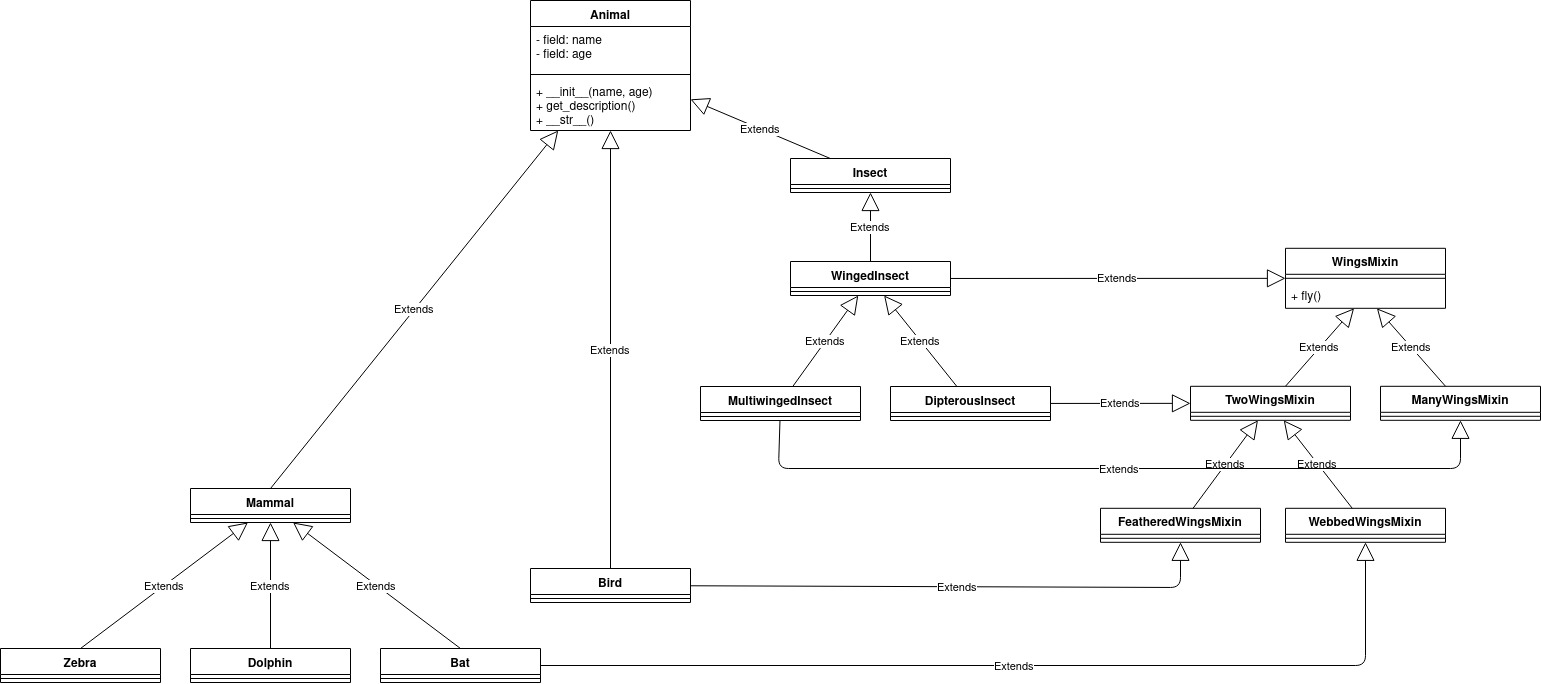
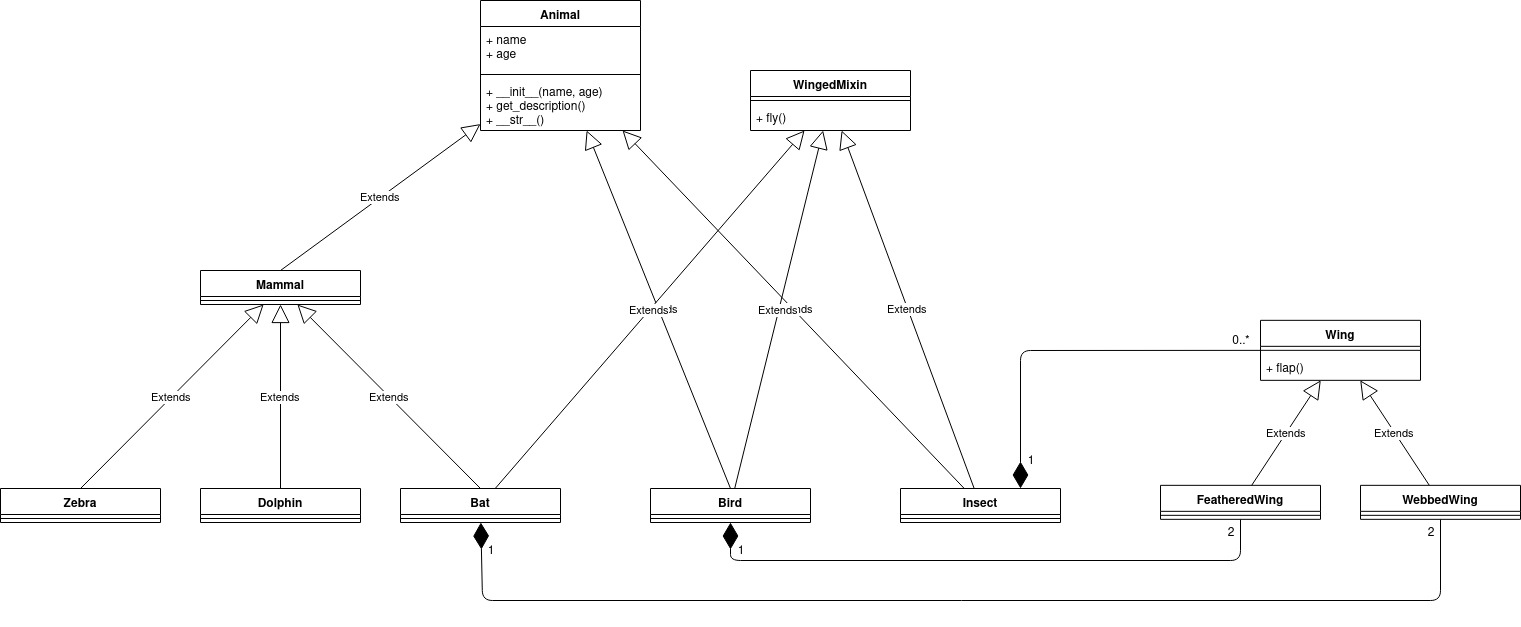
Redo last task in 5th lab work

diff --git a/5_oop/4_animals/animals.py b/5_oop/4_animals/animals.py
@@ -1,0 +1,69 @@
+from wings import *
+
+
+class Animal:
+
+    def __init__(self, name, age):
+        self.name = name
+        self.age = age 
+
+    def get_description(self):
+        return f"Name: {self.name}, age: {self.age}"
+
+    def __str__(self):
+        return self.get_description()
+
+
+class Mammal(Animal):
+
+    def __init__(self, name, age):
+        super().__init__(name, age)
+
+
+class Zebra(Mammal):
+
+    def __init__(self, name, age):
+        super().__init__(name, age)
+
+
+class Dolphin(Mammal):
+
+    def __init__(self, name, age):
+        super().__init__(name, age)
+
+
+class WingedMixin():
+
+    def fly(self):
+        for wing in self.wings: wing.flap() 
+
+
+class Bat(Mammal, WingedMixin):
+
+    def __init__(self, name, age):
+        super().__init__(name, age)
+        self.wings = [WebbedWing() for _ in range(2)]
+
+
+class Bird(Animal, WingedMixin):
+
+    def __init__(self, name, age):
+        super().__init__(name, age)
+        self.wings = [FeatheredWing() for _ in range(2)]
+
+
+class Insect(Animal, WingedMixin):
+    def __init__(self, name, age, wings_count=0):
+        super().__init__(name, age)
+        self.wings = [Wing() for _ in range(wings_count)]
+
+
+if __name__ == "__main__":
+    bird = Bird("SomeBird", 3)
+    bird.fly()
+
+    bat = Bat("SomeBat", 2)
+    bat.fly()
+
+    insect = Insect("SomeBug", 1, 2)
+    insect.fly()

diff --git a/5_oop/4_animals/wings.py b/5_oop/4_animals/wings.py
@@ -1,0 +1,18 @@
+class Wing:
+
+    def flap(self):
+        print(f"wing flaps")
+
+
+class FeatheredWing(Wing):
+
+    def flap(self):
+        print("feathered", end=" ")
+        super().flap()
+
+
+class WebbedWing(Wing):
+
+    def flap(self):
+        print("webbed", end=" ")
+        super().flap()
